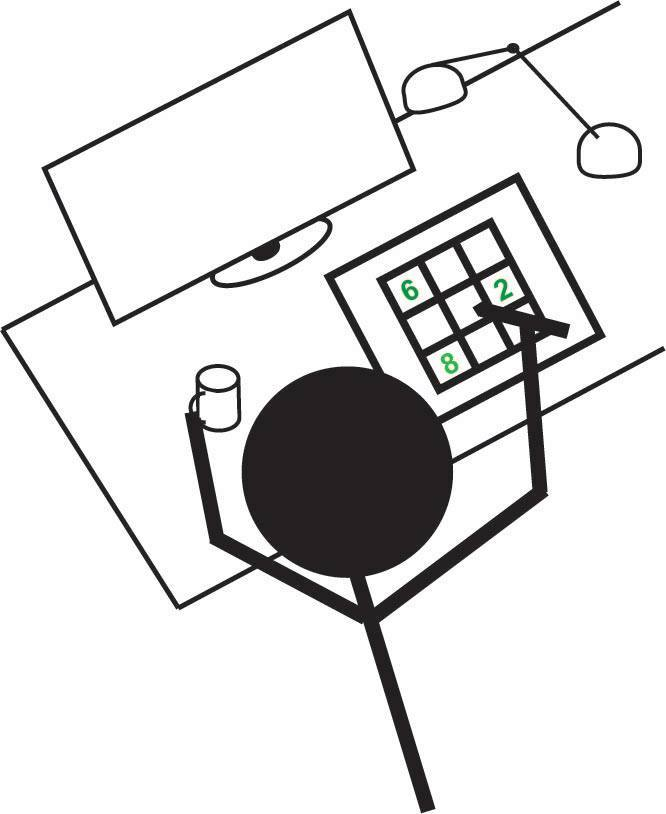
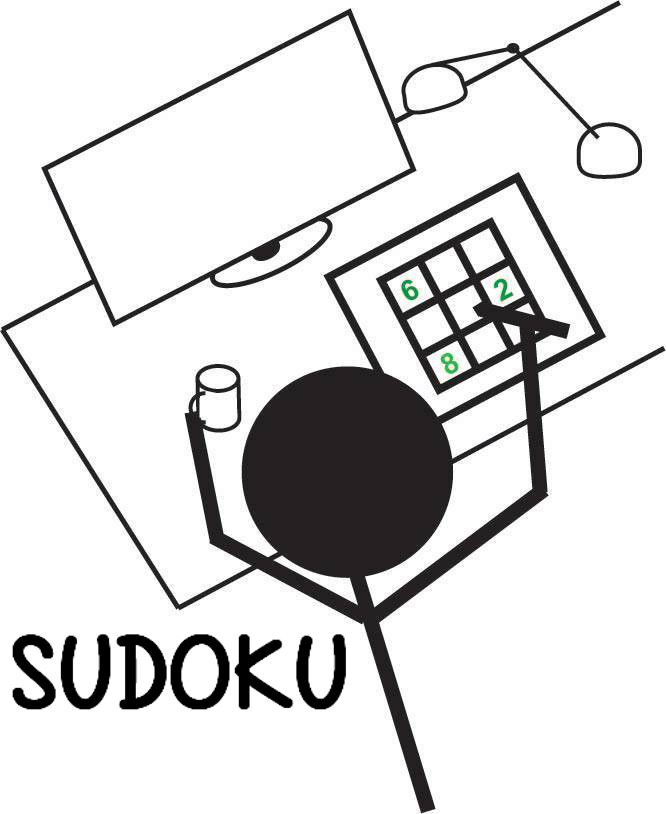
back

Changed region(s): [[0.0, 0.7678, 0.5405, 0.8907]]

diff --git a/index.html b/index.html
@@ -44,9 +44,9 @@
         </script>
 	</head>
 	<body onload="onLoad();">
-		<div id="screen" style="font-family: 'customfont'; ">
+		<div id="screen" style="font-family: 'customfont';">
 			<div id="page1" style="text-align:center;">
-				<h1>SUDOKU</h1>
+				<br />
 				<a href="#" onClick="prejdivpravo(5);"><button>NEW GAME</button></a><br />
 				<a href="#" onClick="pokracuj();"><button>CONTINUE</button></a><br />
 				<a href="#" onClick="prejdivpravo(3);"><button>HELP</button></a>

diff --git a/css/main.css b/css/main.css
@@ -5,7 +5,7 @@ button
 	padding:20px;
 	margin:3%;
 	font-family: "customfont";
-	font-size:30px;
+	font-size:40px;
 }
 table.hraciepole, th.hraciepole, td.hraciepole {
    border: 1px solid black;
